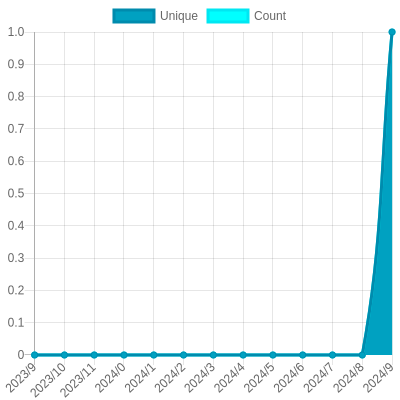
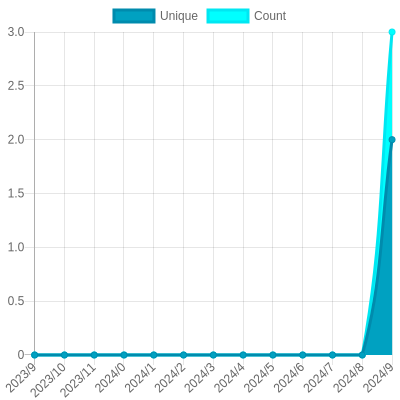
Update views

diff --git a/readme/108577993/year.md b/readme/108577993/year.md
@@ -23,10 +23,10 @@
 			<code>2023/10/1</code>
 		</td>
 		<td>
-			<code>1</code>
+			<code>2</code>
 		</td>
 		<td>
-			<code>1</code>
+			<code>3</code>
 		</td>
 	</tr>
 	<tr>
@@ -164,7 +164,7 @@
 </table>
 
 </details>
-<small><i>Last updated on 2023/10/29 12:06 PM UTC</i></small>
+<small><i>Last updated on 2023/10/29 6:05 PM UTC</i></small>
 
 ## ✂Copy and 📋 Paste
 ### SVG Badge

diff --git a/README.md b/README.md
@@ -149,7 +149,7 @@ The project created and maintained by [gayanvoice](https://github.com/gayanvoice
 	</tr>
 </table>
 
-<small><i>Last updated on 2023/10/29 12:07 PM UTC</i></small>
+<small><i>Last updated on 2023/10/29 6:06 PM UTC</i></small>
 
 ## ✂Copy and 📋 Paste
 ### Total Views Badge

diff --git a/readme/115464782/year.md b/readme/115464782/year.md
@@ -164,7 +164,7 @@
 </table>
 
 </details>
-<small><i>Last updated on 2023/10/29 12:06 PM UTC</i></small>
+<small><i>Last updated on 2023/10/29 6:06 PM UTC</i></small>
 
 ## ✂Copy and 📋 Paste
 ### SVG Badge

diff --git a/readme/159556378/year.md b/readme/159556378/year.md
@@ -164,7 +164,7 @@
 </table>
 
 </details>
-<small><i>Last updated on 2023/10/29 12:06 PM UTC</i></small>
+<small><i>Last updated on 2023/10/29 6:06 PM UTC</i></small>
 
 ## ✂Copy and 📋 Paste
 ### SVG Badge

diff --git a/readme/467696257/year.md b/readme/467696257/year.md
@@ -164,7 +164,7 @@
 </table>
 
 </details>
-<small><i>Last updated on 2023/10/29 12:06 PM UTC</i></small>
+<small><i>Last updated on 2023/10/29 6:05 PM UTC</i></small>
 
 ## ✂Copy and 📋 Paste
 ### SVG Badge

diff --git a/readme/624976823/year.md b/readme/624976823/year.md
@@ -164,7 +164,7 @@
 </table>
 
 </details>
-<small><i>Last updated on 2023/10/29 12:07 PM UTC</i></small>
+<small><i>Last updated on 2023/10/29 6:06 PM UTC</i></small>
 
 ## ✂Copy and 📋 Paste
 ### SVG Badge

diff --git a/readme/677157337/year.md b/readme/677157337/year.md
@@ -164,7 +164,7 @@
 </table>
 
 </details>
-<small><i>Last updated on 2023/10/29 12:06 PM UTC</i></small>
+<small><i>Last updated on 2023/10/29 6:05 PM UTC</i></small>
 
 ## ✂Copy and 📋 Paste
 ### SVG Badge

diff --git a/readme/7057564/year.md b/readme/7057564/year.md
@@ -164,7 +164,7 @@
 </table>
 
 </details>
-<small><i>Last updated on 2023/10/29 12:07 PM UTC</i></small>
+<small><i>Last updated on 2023/10/29 6:06 PM UTC</i></small>
 
 ## ✂Copy and 📋 Paste
 ### SVG Badge

diff --git a/readme/7059334/year.md b/readme/7059334/year.md
@@ -164,7 +164,7 @@
 </table>
 
 </details>
-<small><i>Last updated on 2023/10/29 12:07 PM UTC</i></small>
+<small><i>Last updated on 2023/10/29 6:06 PM UTC</i></small>
 
 ## ✂Copy and 📋 Paste
 ### SVG Badge
